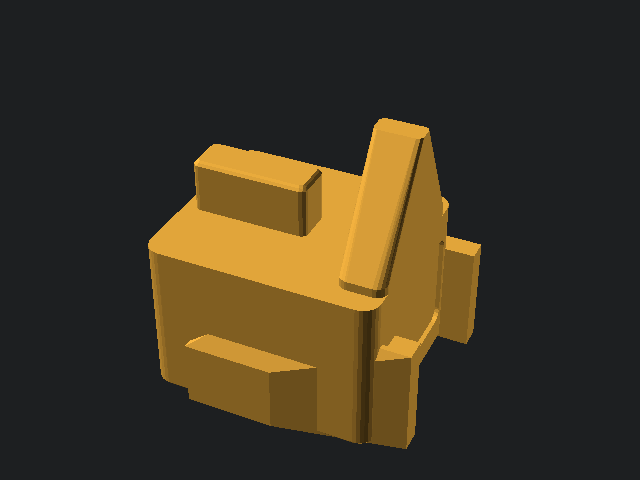
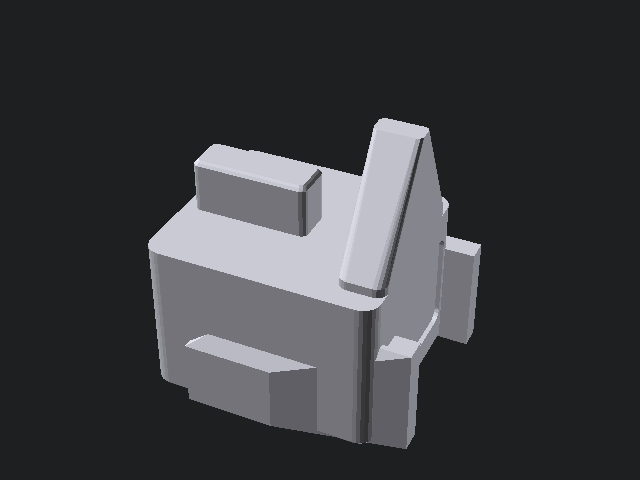
chore(print): Haunt needle, MAX tab, terminal blocks and plug heads are Tarnished Silver

Changed region(s): [[0.2188, 0.25, 0.75, 0.9375]]

diff --git a/tools/prop-mockups/3d.html b/tools/prop-mockups/3d.html
@@ -295,8 +295,8 @@ const PROPS = [
   ["prop-01-lever-arm",       "iron",    "83.0 × 54.4 × 11.5 mm",  "Prop #1: 64 mm XZ vertical-sweep slotted fork push-arm (4.4 mm fork gap) with stepped 11.5 mm clear_fit SG90 horn boss & lid-kicker cam nose."],
   ["prop-03-dial-plate",      "iron",    "177.8 × 116.5 × 26.4 mm","Prop #3: Semi-circular gothic Haunt gauge plate with steeple crest, upper-left cusps, splayed plinth buttresses, Ø12.4 mm SG90 boss bore, ESP32 cradle & max-tab notches (8/10/12)."],
   ["prop-03-bezel-ring",      "brass",   "177.8 × 109.2 × 4.8 mm", "Prop #3: Snap-fit gothic arched bezel ring with steeple crest, upper-left cusps, 12 rivet bosses & threshold sight notches."],
-  ["prop-03-needle",          "brass",   "73.8 × 18.6 × 6.6 mm",   "Prop #3: 72 mm gnarled pointer needle with wrought-iron spiral spur & pierced spearhead, keyed single-arm SG90 horn recess & M2 screw bores."],
-  ["prop-03-max-tab",         "brass"  , "23.5 × 21.0 × 25.2 mm",  "Prop #3: Gothic-crowned clip-on MAX threshold marker tab for 8 (Quick), 10 (Classic), or 12 (Gentle)."],
+  ["prop-03-needle",          "silver",   "73.8 × 18.6 × 6.6 mm",   "Prop #3: 72 mm gnarled pointer needle with wrought-iron spiral spur & pierced spearhead, keyed single-arm SG90 horn recess & M2 screw bores."],
+  ["prop-03-max-tab",         "silver", "23.5 × 21.0 × 25.2 mm",  "Prop #3: Gothic-crowned clip-on MAX threshold marker tab for 8 (Quick), 10 (Classic), or 12 (Gentle)."],
   ["prop-05-plinth-2seat",    "iron",    "105.0 × 44.8 × 45.0 mm", "Prop #5: Modular 2-seat dovetail plinth (100.0 mm exact pitch, gothic lancet pier arches, crypt pilasters, winged seat bezels, open diffuser slot, 2 SG90 bays; print 3×)."],
   ["prop-05-flap-pawn",       "bone",    "41.8 × 77.2 × 10.0 mm",  "Prop #5: Crooked coffin-headstone portrait flap with shoulder ears, open bottom SG90 shaft bore & keyed anti-rotation horn slot on a 10 mm stem (print 6×)."],
   ["prop-05-resolve-insert",  "mint",    "36.4 × 14.0 × 2.4 mm",   "Prop #5: Translucent 3-pip Resolve window lens diffuser insert (print 6×)."],
@@ -314,8 +314,8 @@ const PROPS = [
   ["prop-15-relic-tray",      "iron",    "152.0 × 100.0 × 15.0 mm","Prop #15: Removable 6-bay Relic Token organizer tray with finger scoops & bay icon pockets."],
   ["prop-15-keypad-pod",      "wood",    "94.9 × 124.0 × 39.1 mm", "Prop #15: Angled gothic keypad console with side buttresses, scroll ears, 71×78 mm pocket for a standard 70×77 mm 3×4 keypad & 45° internal ceiling."],
   ["prop-20-wires-panel",     "iron",    "155.0 × 125.0 × 32.8 mm","Prop #20: Patchbay with gothic tapered corner pilasters, corner deck rivets, 5 left wire-anchor wells, 5 right terminal socket wells (14.3 mm), SET button, PAIRED LED & 45° ESP32 roof."],
-  ["prop-20-terminal-blocks", "brass",   "129.0 × 47.0 × 14.0 mm", "Prop #20: 5 terminal sockets + 5 wire anchors + 1 SET button bezel (11 parts)."],
-  ["prop-20-plug-heads",      "brass"  , "116.0 × 40.8 × 22.0 mm", "Prop #20: 5 octagonal coffin-knurled resistor plug barrels (1.9 mm nose wall, axial resistor grip cavity) + 5 snap-in back caps (10 parts)."],
+  ["prop-20-terminal-blocks", "silver",   "129.0 × 47.0 × 14.0 mm", "Prop #20: 5 terminal sockets + 5 wire anchors + 1 SET button bezel (11 parts)."],
+  ["prop-20-plug-heads",      "silver", "116.0 × 40.8 × 22.0 mm", "Prop #20: 5 octagonal coffin-knurled resistor plug barrels (1.9 mm nose wall, axial resistor grip cavity) + 5 snap-in back caps (10 parts)."],
 ];
 
 function renderCards(targetId, items) {

diff --git a/tools/prop-mockups/viewer.html b/tools/prop-mockups/viewer.html
@@ -122,8 +122,8 @@ const PARTS = [
   ['prop-01-lever-arm', 'Lever arm',               G1, 'iron',    'M', 1],
   ['prop-03-dial-plate','Dial plate',              G3, 'iron',    'E', 1],
   ['prop-03-bezel-ring','Bezel ring',              G3, 'brass',   'S', 1],
-  ['prop-03-needle',    'Needle',                  G3, 'brass',   'M', 1],
-  ['prop-03-max-tab',   'MAX tab (clips on by hand)', G3, 'brass', 'S', 1],
+  ['prop-03-needle',    'Needle',                  G3, 'silver',   'M', 1],
+  ['prop-03-max-tab',   'MAX tab (clips on by hand)', G3, 'silver', 'S', 1],
   ['prop-05-plinth-2seat','Plinth, 2 seats',       G5, 'iron',    'E', 3],
   ['prop-05-flap-pawn', 'Flap',                    G5, 'bone',    'M', 6],
   ['prop-05-resolve-insert','Resolve window insert', G5, 'mint',  'S', 6],
@@ -141,8 +141,8 @@ const PARTS = [
   ['prop-15-relic-tray','Relic tray',              G15, 'iron',   'S', 1],
   ['prop-15-keypad-pod','Keypad pod',              G15, 'iron',   'E', 1],
   ['prop-20-wires-panel','Wires panel',            G20, 'iron',   'E', 1],
-  ['prop-20-terminal-blocks','Terminal blocks',    G20, 'brass',  'E', 1],
-  ['prop-20-plug-heads','Plug heads (10 shells)',  G20, 'brass','E', 1],
+  ['prop-20-terminal-blocks','Terminal blocks',    G20, 'silver',  'E', 1],
+  ['prop-20-plug-heads','Plug heads (10 shells)',  G20, 'silver','E', 1],
   // From Ghost.fbx via tools/prop-mockups/convert-ghost.mjs. The last two flags: a reference model (loads from REF_BASE), and a smooth one.
   ['ghost-original',    'Original ghost (Ghost.fbx)', GR, 'bone',  'R', 0, false, true, true],
   ['ghost-web',         'Original ghost web',      GR, 'mint',    'R', 0, false, true, true],

diff --git a/print/README.md b/print/README.md
@@ -29,11 +29,11 @@ The 45-piece collection prints from **6 PLA spools**: Dark Iron, Antique Brass, 
 | Spool Name | Role / `design/tokens.json` Match | Hex | Recommended Filament | Used For |
 |---|---|---|---|---|
 | **Dark Iron** | `ink` (`#0b0d10`) | `#262229` | Matte Charcoal / Galaxy Black PLA | dial plate, 2-seat flipper plinth, curtain rail & pulley, curtain panels (#9), bat mobile, relic tray, cut-wires panel, pyramid holder, relic token pocket, lever arm |
-| **Antique Brass** | `lantern` (`#e0a43a`) | `#d4a84b` | Silk Brass / Antique Gold PLA | locket body & lid (`r3`), séance bell (`r6`), dial bezel & needle (#3), stage screen bezel (#9), chandelier (#12), vault clasp (#15), terminal blocks (#20), MAX tab (#3), resistor plug heads (#20) |
+| **Antique Brass** | `lantern` (`#e0a43a`) | `#d4a84b` | Silk Brass / Antique Gold PLA | locket body & lid (`r3`), séance bell (`r6`), dial bezel (#3), stage screen bezel (#9), chandelier (#12), vault clasp (#15) |
 | **Ectoplasm Mint** | `ghost` (`#9fe8d0`) | `#5ce6b8` | Translucent Mint / Glow Green PLA | Pop-up ghost figure (#1), translucent Resolve pip diffuser inserts (#5) |
 | **Bone / Ivory** | `bone` (`#e9e4d8`) | `#e8dec8` | Matte Bone White / Warm Ivory PLA | Wax hand (`r2`), haunting flipper pawns (#5), porcelain doll (#12), all 6 Suspect standees |
 | **Warm Wood** | `leather` (`#6b4d33`) | `#422818` | Wood-Fill PLA or Matte Walnut Brown PLA | Ghost chest body & lid (#1), planchette (`r4`), stage proscenium frame (#9), beam bracket (#12), relic vault chest, lid & keypad pod (#15) |
-| **Tarnished Silver** | Metallic silver | `#c9c9d4` | Silk Silver / Pewter Grey PLA | Music box body & lid (`r1`), silver skeleton key (`r5`) |
+| **Tarnished Silver** | Metallic silver | `#c9c9d4` | Silk Silver / Pewter Grey PLA | Music box body & lid (`r1`), silver skeleton key (`r5`), Haunt needle & MAX tab (#3), terminal blocks & resistor plug heads (#20) |
 
 ---
 
@@ -72,8 +72,8 @@ All 45 compiled binary STL files live in [`print/stl/`](./stl/) (and are mirrore
 | **#1 Ghost in the Box** | `prop-01-lever-arm.stl` | `64 mm` XZ vertical-sweep slotted fork push-arm (`4.4 mm` fork gap) with stepped `11.5 mm` `clear_fit` SG90 horn boss (`-X` pocket) & upper `+54°` lid-kicker cam nose | `83.0 × 54.4 × 11.5` | Dark Iron | Flat side on bed (`+Z` up) | None | — |
 | **#3 Haunt Needle** | `prop-03-dial-plate.stl` | Semi-circular gothic gauge body with steeple crest, upper-left cusps, splayed plinth buttresses, `0.4 mm` recessed scale pocket, flush rear tabletop base plinth (zero bezel/needle interference), through-bored `Ø12.4 mm` SG90 boss hole (shaft protrudes `5.5 mm` past front face), 45°-vaulted rear ESP32 DevKitC bay & 3 max-tab detents (`8, 10, 12`) | `177.8 × 116.5 × 26.4` | Dark Iron | Back flat on bed (`+Z` up) | None (45° vaulted ESP32 roof) | `stickers-prop-03-haunt-needle.svg` |
 | **#3 Haunt Needle** | `prop-03-bezel-ring.stl` | Snap-fit gothic arched bezel ring with steeple crest, upper-left cusps, 12 rivet bosses & threshold sight notches | `177.8 × 109.2 × 4.8` | Antique Brass | Flat back on bed (`+Z` up) | None | — |
-| **#3 Haunt Needle** | `prop-03-needle.stl` | `72 mm` gnarled pointer needle with wrought-iron spiral spur & pierced spearhead (`< 10 mm` counterweight radius clears lower bezel opening), keyed single-arm SG90 horn recess (`clear_fit`) & M2 screw holes | `73.8 × 18.6 × 6.6` | Antique Brass | Flat back on bed (`+Z` up) | None | — |
-| **#3 Haunt Needle** | `prop-03-max-tab.stl` | Gothic-crowned clip-on `"MAX"` threshold marker tab that snaps radially into the `8`, `10`, or `12` dial rim detent while stepping cleanly `0.4 mm` over the bezel ring | `23.5 × 21.0 × 25.2` | Antique Brass | Flat outer butt on bed (`+Z` up) | None | `stickers-prop-03-haunt-needle.svg` |
+| **#3 Haunt Needle** | `prop-03-needle.stl` | `72 mm` gnarled pointer needle with wrought-iron spiral spur & pierced spearhead (`< 10 mm` counterweight radius clears lower bezel opening), keyed single-arm SG90 horn recess (`clear_fit`) & M2 screw holes | `73.8 × 18.6 × 6.6` | Tarnished Silver | Flat back on bed (`+Z` up) | None | — |
+| **#3 Haunt Needle** | `prop-03-max-tab.stl` | Gothic-crowned clip-on `"MAX"` threshold marker tab that snaps radially into the `8`, `10`, or `12` dial rim detent while stepping cleanly `0.4 mm` over the bezel ring | `23.5 × 21.0 × 25.2` | Tarnished Silver | Flat outer butt on bed (`+Z` up) | None | `stickers-prop-03-haunt-needle.svg` |
 | **#5 Haunting Flipper** | `prop-05-plinth-2seat.stl` | Modular 2-seat plinth (`100.0 mm` exact modular pitch, `0.0 mm` skirt overlap) with gothic lancet pier arches around 6 Resolve LED windows, crypt pilasters, winged seat medallion bezels, male/female dovetails, 2 SG90 bays, bottom-entry diffuser slot (open at `Z = 0`) & name pockets (print `3×` for 6 seats) | `105.0 × 44.8 × 45.0` | Dark Iron | Bottom flat on bed (`+Z` up); print `3×` | None | `stickers-prop-05-haunting-flipper.svg` |
 | **#5 Haunting Flipper** | `prop-05-flap-pawn.stl` | Crooked coffin-headstone portrait flap with shoulder ears (print `6×`) on a `10 mm`-thick stem, with an open bottom SG90 shaft bore (`2.5 mm` walls around it), a keyed horn slot (`1.2 mm` walls) sized for a stock single-arm horn trimmed to a tab no wider than `4.0 mm` and about `6 mm` long, cross-pin hole & `0.4 mm` front/back portrait pockets (Living vs Ghost) | `41.8 × 77.2 × 10.0` | Bone / Ivory | Flat on bed (`+Z` up); print `6×` | None | `stickers-prop-05-haunting-flipper.svg` |
 | **#5 Haunting Flipper** | `prop-05-resolve-insert.stl` | Diffuser strip with 3 bevelled lens pips (`8.4×5.4 mm`) that slides up into each seat's bottom-entry Resolve slot (print `6×`) | `36.4 × 14.0 × 2.4` | Ectoplasm Mint | Flat back on bed (`+Z` up); print `6×` | None | — |
@@ -91,8 +91,8 @@ All 45 compiled binary STL files live in [`print/stl/`](./stl/) (and are mirrore
 | **#15 Relic Vault** | `prop-15-relic-tray.stl` | Removable 6-bay Relic Token organizer tray (`152×100×15 mm`) with finger scoops & `22×22 mm` bay floor icon pockets (`r1`–`r6`) | `152.0 × 100.0 × 15.0` | Dark Iron | Bottom flat on bed (`+Z` up) | None | `stickers-prop-15-relic-vault.svg` |
 | **#15 Relic Vault** | `prop-15-keypad-pod.stl` | Angled desktop keypad console with gothic side buttresses, scroll ears, **`71.0×78.0×3.0 mm` sloped pocket** for a standard **`70×77 mm`** `3×4` membrane/matrix keypad, `14.5 mm`-wall + `<= 45°` vaulted self-supporting ESP32 bay, a ribbon slot from the keypad pocket down into the bay (`24 mm` wide, `18 mm` tall), a `32 mm` cable conduit that now reaches the bay from the left wall, LED bar slot & `"ENTER PIN"` pocket | `94.9 × 124.0 × 39.1` | Warm Wood | Bottom flat on bed (`+Z` up) | None (45° tapered internal ceiling) | `stickers-prop-15-relic-vault.svg` |
 | **#20 Cut Wires** | `prop-20-wires-panel.stl` | Desktop patchbay (`155×125×32.8 mm`) with gothic tapered corner pilasters, deck corner rivets, 5 left wire-anchor wells (`10.4 mm` square, `5.0 mm` wire bore under a `Z = 6` stop ledge), 5 right terminal wells (`14.3 mm` round, `8.4 mm` bore under the same ledge) that take the printed sockets from `prop-20-terminal-blocks.stl`, a `16.2 mm` `"SET"` button hole, a `5.2 mm` `"PAIRED"` LED hole, 45° corbelled ESP32 bay roof & full-depth USB-C notch | `155.0 × 125.0 × 32.8` | Dark Iron | Bottom flat on bed (`+Z` up) | None (45° corbelled internal roof & teardrop wire holes) | `stickers-prop-20-cut-wires.svg` |
-| **#20 Cut Wires** | `prop-20-terminal-blocks.stl` | Set of 5 terminal sockets + 5 wire anchors + 1 `"SET"` button bezel (`11` parts on one build plate; there is no LED collar) | `129.0 × 47.0 × 14.0` | Antique Brass | Bottoms flat on bed (`+Z` up) | None | — |
-| **#20 Cut Wires** | `prop-20-plug-heads.stl` | Set of 5 octagonal coffin-knurled resistor plug barrels (`5.0 mm` axial `1/4 W` resistor cavity in thick grip + `2.2 mm` lead bore through `6.0 mm` nose stem = `1.9 mm` nose wall) + 5 snap-in back caps (`10` parts on one plate) | `116.0 × 40.8 × 22.0` | Antique Brass | Collars/caps flat on bed (`+Z` up) | None | `stickers-prop-20-cut-wires.svg` |
+| **#20 Cut Wires** | `prop-20-terminal-blocks.stl` | Set of 5 terminal sockets + 5 wire anchors + 1 `"SET"` button bezel (`11` parts on one build plate; there is no LED collar) | `129.0 × 47.0 × 14.0` | Tarnished Silver | Bottoms flat on bed (`+Z` up) | None | — |
+| **#20 Cut Wires** | `prop-20-plug-heads.stl` | Set of 5 octagonal coffin-knurled resistor plug barrels (`5.0 mm` axial `1/4 W` resistor cavity in thick grip + `2.2 mm` lead bore through `6.0 mm` nose stem = `1.9 mm` nose wall) + 5 snap-in back caps (`10` parts on one plate) | `116.0 × 40.8 × 22.0` | Tarnished Silver | Collars/caps flat on bed (`+Z` up) | None | `stickers-prop-20-cut-wires.svg` |
 
 ---
 
